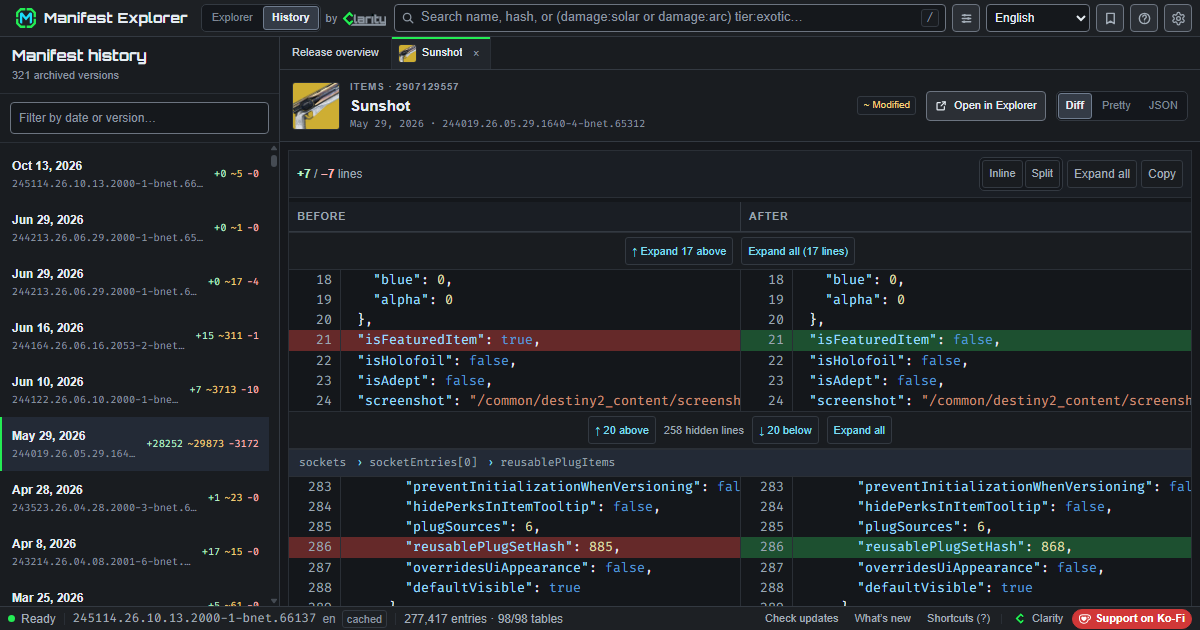
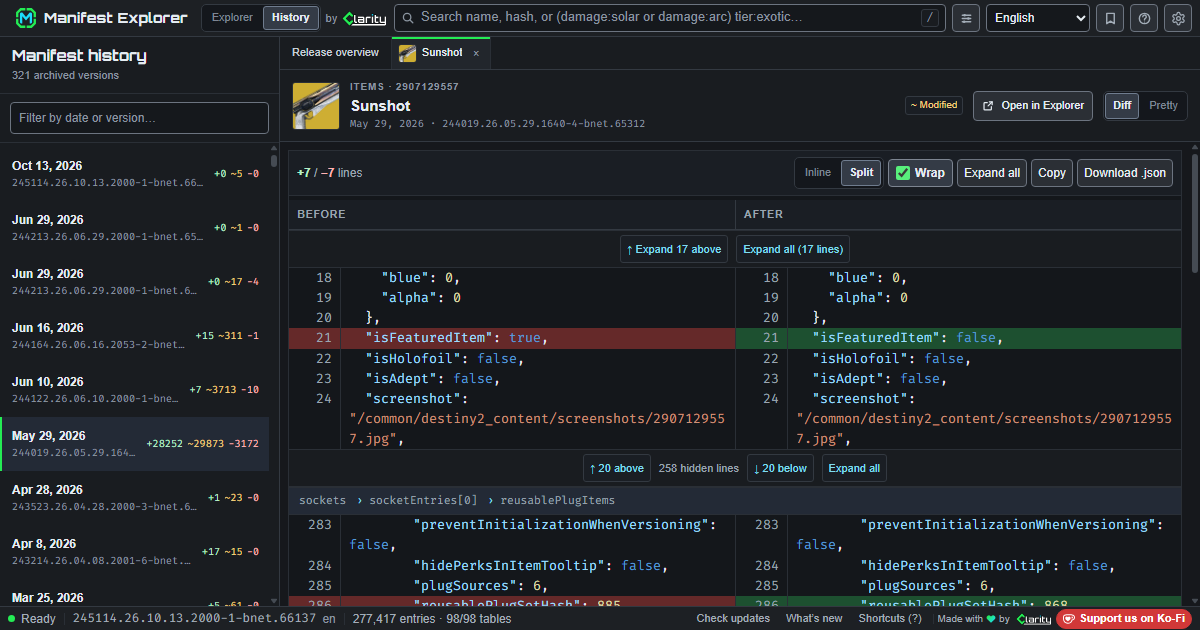
Refresh OG embed images, bump cache-busting URLs & fix Split diff code-column width

diff --git a/src/components/inspector/JsonDiffView.module.scss b/src/components/inspector/JsonDiffView.module.scss
@@ -245,9 +245,14 @@
 .removedLine,
 .contextLine {
   display: grid;
-  grid-template-columns: 3.25rem 3.25rem 1.25rem minmax(0, 1fr);
   min-height: 1.55em;
   color: var(--editor-text);
+}
+
+.codeRows .addedLine,
+.codeRows .removedLine,
+.codeRows .contextLine {
+  grid-template-columns: 3.25rem 3.25rem 1.25rem minmax(0, 1fr);
 }
 
 .addedLine {
@@ -307,6 +312,10 @@
   word-break: break-word;
 }
 
+.splitCell > .codeLine {
+  padding-left: 0.5rem;
+}
+
 .syntaxRow {
   display: grid;
   grid-template-columns: 3rem minmax(0, 1fr);
@@ -324,9 +333,9 @@
     min-width: max(100%, 48rem);
   }
 
-  .addedLine,
-  .removedLine,
-  .contextLine {
+  .codeRows .addedLine,
+  .codeRows .removedLine,
+  .codeRows .contextLine {
     grid-template-columns: 3.25rem 3.25rem 1.25rem max-content;
   }
 
@@ -486,15 +495,15 @@
     display: none;
   }
 
-  .addedLine,
-  .removedLine,
-  .contextLine {
+  .codeRows .addedLine,
+  .codeRows .removedLine,
+  .codeRows .contextLine {
     grid-template-columns: 2.25rem 0.875rem minmax(0, 1fr);
   }
 
-  .unwrapped .addedLine,
-  .unwrapped .removedLine,
-  .unwrapped .contextLine {
+  .unwrapped .codeRows .addedLine,
+  .unwrapped .codeRows .removedLine,
+  .unwrapped .codeRows .contextLine {
     grid-template-columns: 2.25rem 0.875rem max-content;
   }
 

diff --git a/index.html b/index.html
@@ -39,7 +39,7 @@
       content="Search Destiny 2 manifest definitions, follow hash references, and inspect changes across game updates."
     />
     <meta property="og:url" content="https://manifest.d2clarity.com/" />
-    <meta property="og:image" content="https://manifest.d2clarity.com/og-image.png" />
+    <meta property="og:image" content="https://manifest.d2clarity.com/og-image.png?v=20261124" />
     <meta property="og:image:width" content="1200" />
     <meta property="og:image:height" content="630" />
     <meta property="og:image:alt" content="Destiny 2 Manifest Explorer by Clarity" />
@@ -49,7 +49,7 @@
       name="twitter:description"
       content="Search Destiny 2 manifest definitions, follow hash references, and inspect changes across game updates."
     />
-    <meta name="twitter:image" content="https://manifest.d2clarity.com/og-image.png" />
+    <meta name="twitter:image" content="https://manifest.d2clarity.com/og-image.png?v=20261124" />
     <script>
       (function () {
         try {

diff --git a/worker/index.ts b/worker/index.ts
@@ -129,7 +129,7 @@ async function handleFetch(
 const HISTORY_PAGE_TITLE = 'Destiny 2 Manifest History';
 const HISTORY_PAGE_DESCRIPTION =
   'Browse Destiny 2 manifest updates from 2017 to today with categorized changes and full JSON diffs.';
-const HISTORY_PAGE_IMAGE = 'https://manifest.d2clarity.com/og-history.png';
+const HISTORY_PAGE_IMAGE = 'https://manifest.d2clarity.com/og-history.png?v=20261124';
 const HISTORY_PAGE_IMAGE_ALT = 'Destiny 2 Manifest History diffs by Clarity';
 
 async function serveHistoryPage(
